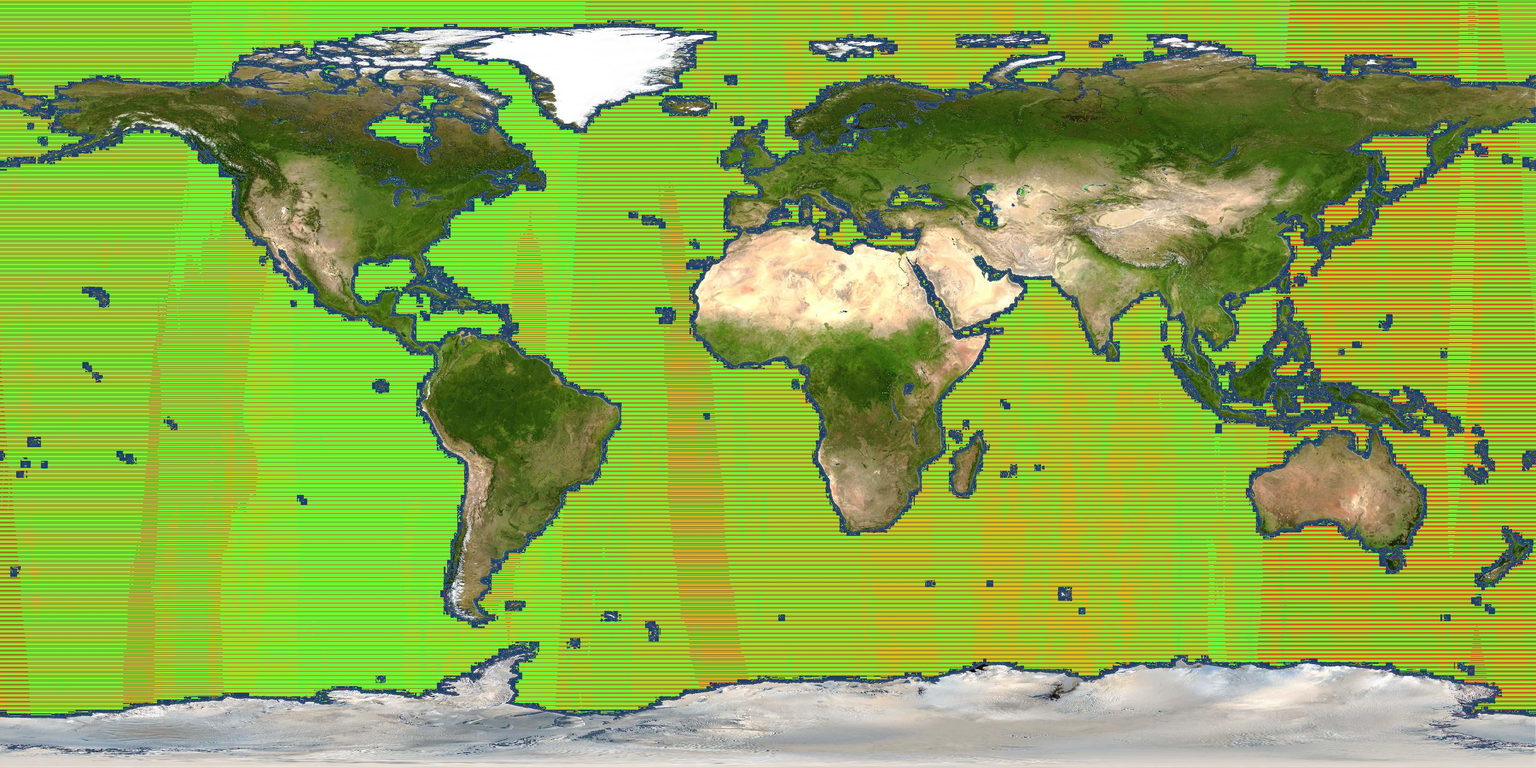
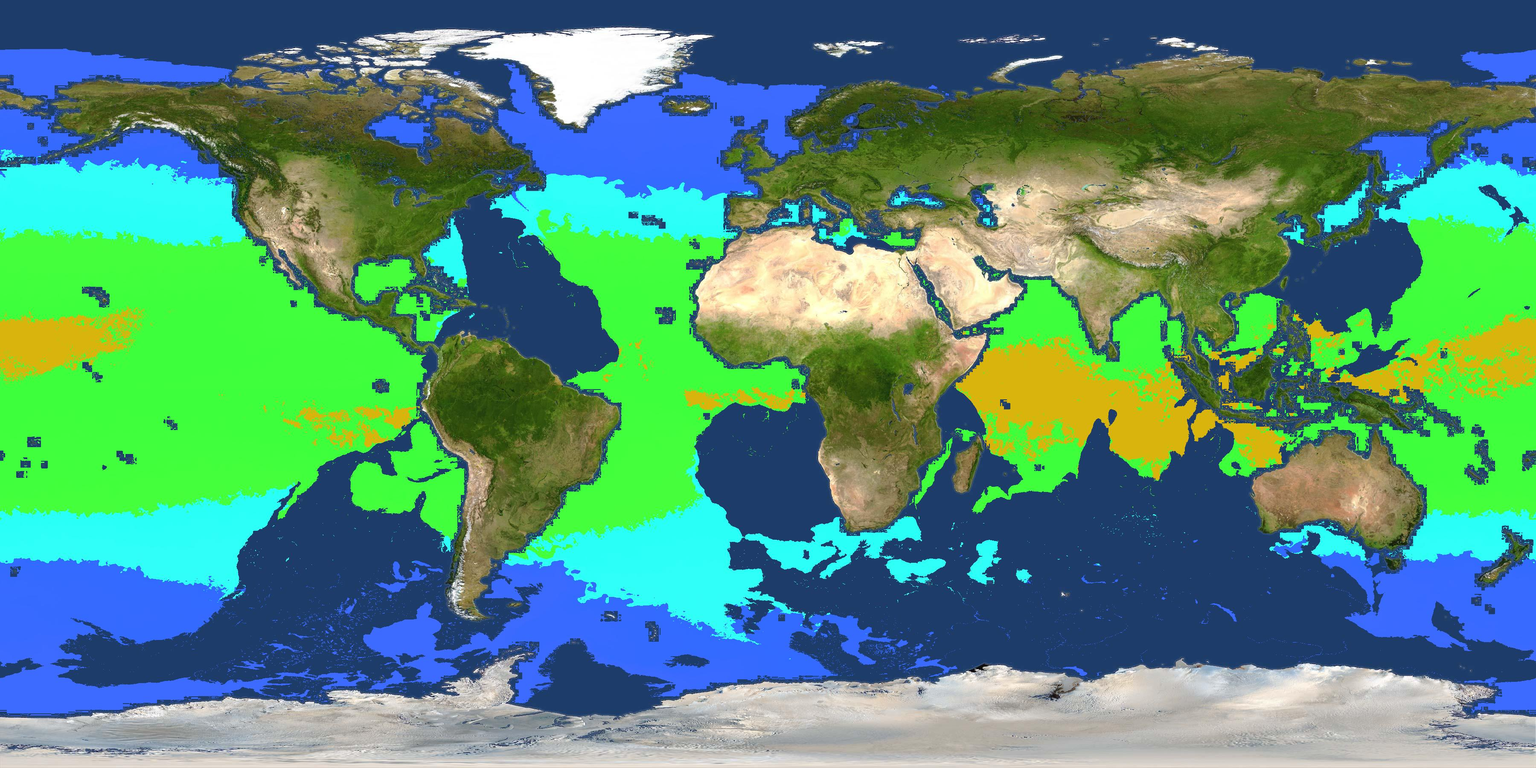
temp_map_server-08
Final variant

diff --git a/convert.js b/convert.js
@@ -23,20 +23,21 @@ const dom = new JSDOM(`<!doctype html>
 let sourceimage = dom.window.document.querySelector("img");
 const newCanvas = new Canvas(sourceimage.width, sourceimage.height);
 let context = newCanvas.getContext("2d");
-
+let chunkArr = [];
 // temps table array (size of 6480000 (3600px * 1800px))
 let temps = [];
 
 const getColor = (value) => {
+
   // to Celsius
   let toC = (5 / 9) * (value - 32);
 
   // return water temp color
   if (toC <= 10) return [60, 106, 255, 255];
-  if (toC <= 20) return [60, 255, 247, 255];
-  if (toC <= 30) return [91, 255, 60, 255];
-  if (toC <= 35) return [248, 180, 13, 255];
-  if (toC > 35) return [248, 25, 13, 255];
+  if (toC > 10 && toC <= 20) return [60, 255, 247, 255];
+  if (toC > 20 && toC <= 30) return [91, 255, 60, 255];
+  if (toC > 30 && toC <= 35) return [248, 180, 13, 255];
+  
 };
 
 function createMap() {
@@ -58,7 +59,7 @@ function createMap() {
   let j = 0;
   /**########  Canvas ######### */
 
-  /**########  Select pixel and chenge color ######### */
+  /**########  Select pixel and change color ######### */
   for (let i = 0; i < all; i += 4) {
     j += 1;
     if (data[i + 1] === 60) {
@@ -71,7 +72,7 @@ function createMap() {
       }
     }
   }
-  /**########  Select pixel and chenge color ######### */
+  /**########  Select pixel and change color ######### */
 
   context.putImageData(pixels, 0, 0);
 
@@ -84,19 +85,31 @@ function createMap() {
 
 function getTempertures() {
   /**########  Read chunks size of 6480000 from sst.grid and save chunk #45  ######### */
+ 
   let readStream = fs.createReadStream("./dist/sst.grid", {
-    highWaterMark: 6480000,
+    highWaterMark: 36000,
   });
 
   let i = 0;
   readStream.on("data", function (chunk) {
+
+    chunkArr = [];
     i += 1;
-    if (i === 45) temps = [...chunk];
+    // get chunk of 36000 elements (width of one row data from binary file)
+    if(i % 10 === 0) {
+      chunkArr = [...chunk];
+
+       // take such 10-d chunk and take such 10 element in it
+      for(let c = 0; c < chunkArr.length; c += 10) {
+        temps.push(chunkArr[c]);
+      }
+    }
+
   });
 
   readStream.on("end", () => {
     console.log("file has been read completely");
-
+   
     // create temps map function
     createMap();
   });
